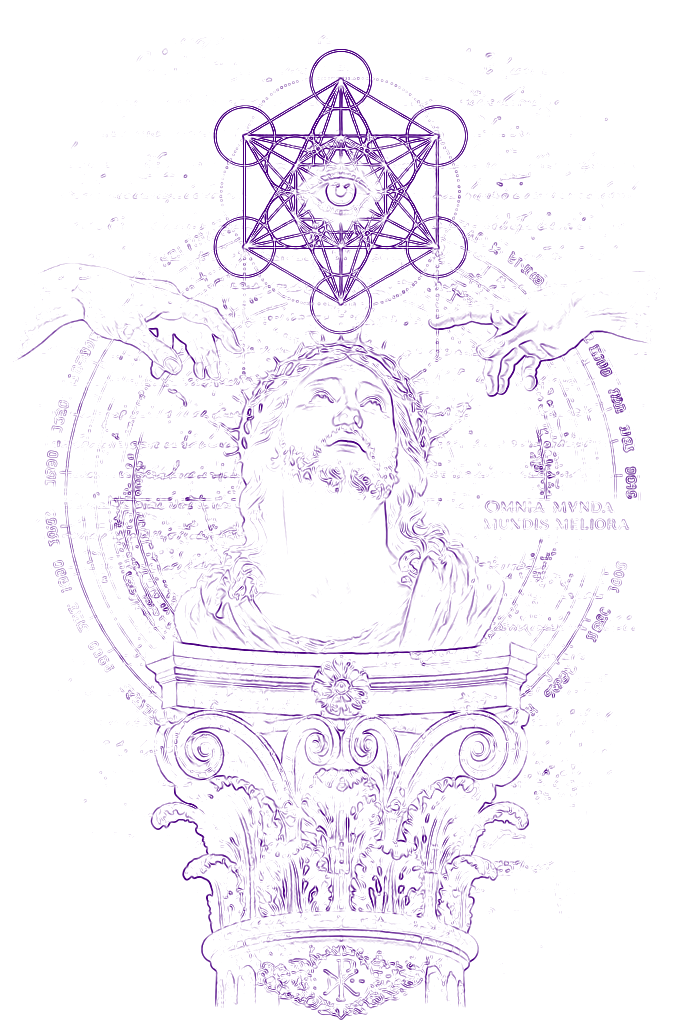
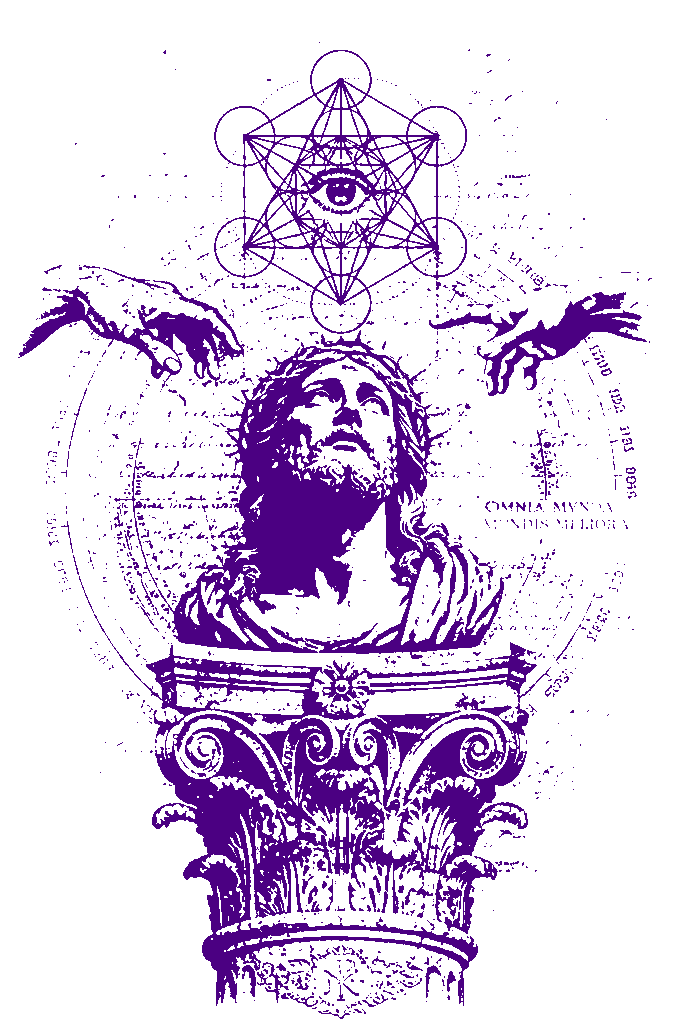
Improve stencil: unsharp mask + levels + S-curve for clean violet lines

Changed region(s): [[0.0305, 0.0312, 0.9462, 1.0], [0.7326, 0.1562, 0.7631, 0.2188]]

diff --git a/outil.html b/outil.html
@@ -2412,6 +2412,16 @@
       const baLine       = document.getElementById('studio-ba-line');
       const baKnob       = document.getElementById('studio-ba-knob');
 
+      function gaussBlur(src, w, h, r) {
+        const sigma = r/3, ks = r*2+1, k = new Float32Array(ks); let s=0;
+        for(let i=0;i<ks;i++){const x=i-r;k[i]=Math.exp(-(x*x)/(2*sigma*sigma));s+=k[i];}
+        for(let i=0;i<ks;i++)k[i]/=s;
+        const tmp=new Float32Array(w*h), out=new Float32Array(w*h);
+        for(let y=0;y<h;y++)for(let x=0;x<w;x++){let v=0;for(let i=0;i<ks;i++){const xi=Math.max(0,Math.min(w-1,x+i-r));v+=src[y*w+xi]*k[i];}tmp[y*w+x]=v;}
+        for(let y=0;y<h;y++)for(let x=0;x<w;x++){let v=0;for(let i=0;i<ks;i++){const yi=Math.max(0,Math.min(h-1,y+i-r));v+=tmp[yi*w+x]*k[i];}out[y*w+x]=v;}
+        return out;
+      }
+
       function applyStencil(img) {
         const canvas = document.createElement('canvas');
         canvas.width = img.naturalWidth; canvas.height = img.naturalHeight;
@@ -2420,31 +2430,30 @@
         const { data, width: w, height: h } = ctx.getImageData(0, 0, canvas.width, canvas.height);
 
         // Grayscale
-        const gray = new Uint8ClampedArray(w * h);
+        const gray = new Float32Array(w * h);
         for (let i = 0; i < w * h; i++)
           gray[i] = 0.299*data[i*4] + 0.587*data[i*4+1] + 0.114*data[i*4+2];
 
-        // Sobel edge detection
-        const edges = new Float32Array(w * h);
-        for (let y = 1; y < h-1; y++) for (let x = 1; x < w-1; x++) {
-          const gx = -gray[(y-1)*w+(x-1)] - 2*gray[y*w+(x-1)] - gray[(y+1)*w+(x-1)]
-                    + gray[(y-1)*w+(x+1)] + 2*gray[y*w+(x+1)] + gray[(y+1)*w+(x+1)];
-          const gy = -gray[(y-1)*w+(x-1)] - 2*gray[(y-1)*w+x] - gray[(y-1)*w+(x+1)]
-                    + gray[(y+1)*w+(x-1)] + 2*gray[(y+1)*w+x] + gray[(y+1)*w+(x+1)];
-          edges[y*w+x] = Math.sqrt(gx*gx + gy*gy);
-        }
-        let maxE = 0;
-        for (let i = 0; i < w*h; i++) if (edges[i] > maxE) maxE = edges[i];
+        // Smooth + unsharp mask to enhance structure
+        const smoothed = gaussBlur(gray, w, h, 2);
+        const blurred  = gaussBlur(smoothed, w, h, 8);
+        const sharp = new Float32Array(w*h);
+        for(let i=0;i<w*h;i++) sharp[i] = Math.min(255, Math.max(0, smoothed[i] + 1.5*(smoothed[i]-blurred[i])));
 
-        // Output: white bg + violet lines (hectograph stencil color)
+        // Levels + S-curve → push to B/W
+        for(let i=0;i<w*h;i++){
+          let v = Math.min(255, Math.max(0, (sharp[i]-50)/(210-50)*255));
+          v = v<128 ? 128*Math.pow(v/128,1.8) : 255-128*Math.pow((255-v)/128,1.8);
+          sharp[i] = v;
+        }
+
+        // Output: white bg + violet lines
         const out = ctx.createImageData(w, h);
         for (let i = 0; i < w*h; i++) {
-          let e = (edges[i] / maxE) * 255;
-          e = e < 40 ? 0 : Math.min(255, (e - 40) * 1.8);
-          const a = e / 255;
-          out.data[i*4]   = Math.round(255*(1-a) + 75*a);
-          out.data[i*4+1] = Math.round(255*(1-a) + 0*a);
-          out.data[i*4+2] = Math.round(255*(1-a) + 130*a);
+          const isLine = sharp[i] < 160;
+          out.data[i*4]   = isLine ? 75  : 255;
+          out.data[i*4+1] = isLine ? 0   : 255;
+          out.data[i*4+2] = isLine ? 130 : 255;
           out.data[i*4+3] = 255;
         }
         ctx.putImageData(out, 0, 0);
